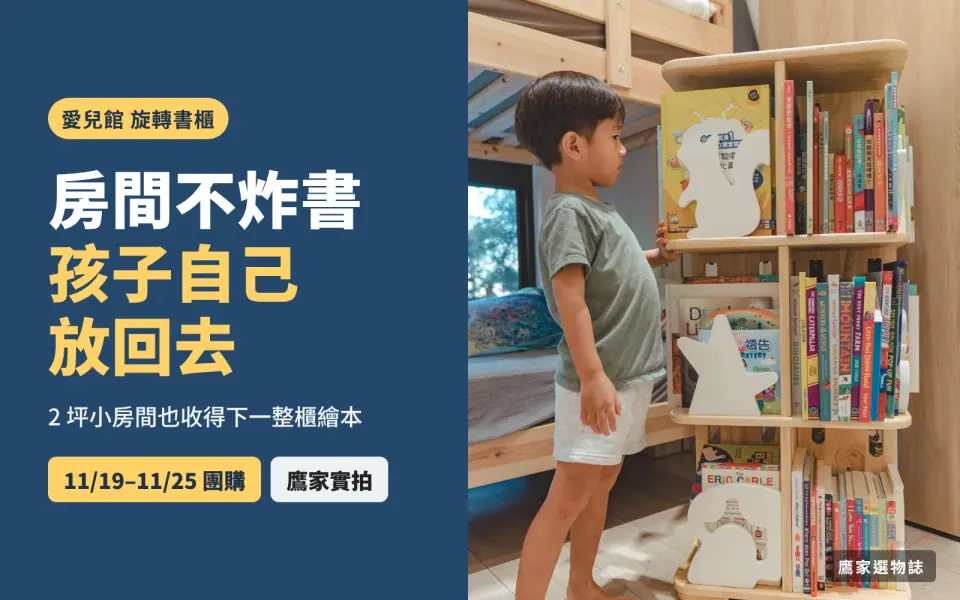
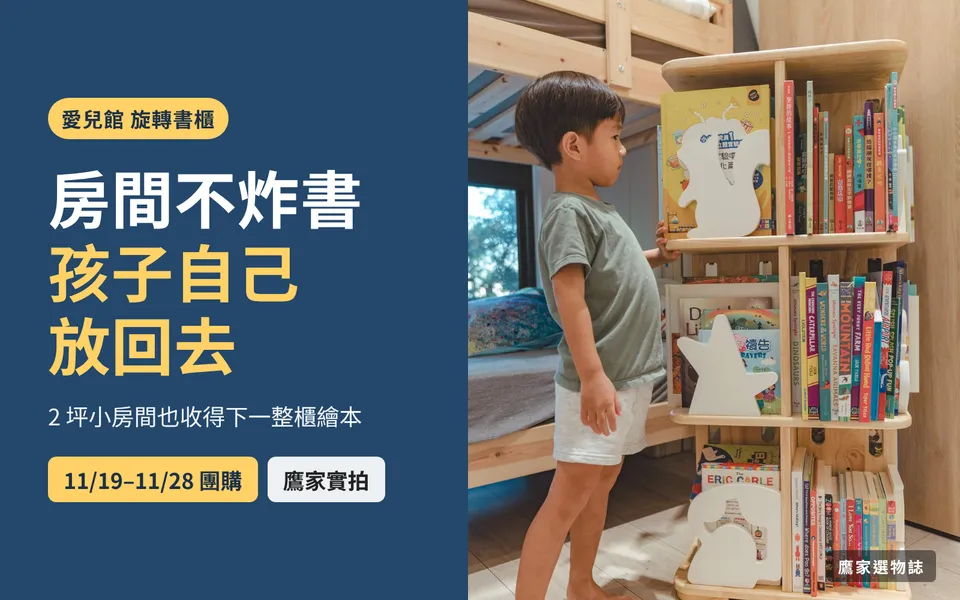
grace: GB-061 愛兒館旋轉書櫃改寫這一檔（11/19～11/28、價格、出貨、退貨），刪上一檔與免責套語；封面檔期同步
Claude-Session: https://claude.ai/code/session_01VMXN9TMQs8VKqA29BYD8cw

diff --git a/blog/ilovekids-rotating-bookcase/index.html b/blog/ilovekids-rotating-bookcase/index.html
@@ -1,15 +1,15 @@
 <!doctype html>
-<html lang="zh-Hant-TW"><head><meta charset="utf-8"><meta name="viewport" content="width=device-width,initial-scale=1"><meta name="robots" content="index,follow,max-image-preview:large"><title>愛兒館旋轉書櫃好用嗎？小房間收繪本，孩子自己拿、自己放回去｜鷹家選物誌</title><meta name="description" content="孩子房間不到 2 坪，長型書架讓書東倒西歪、孩子也不好拿放。我們從 2023 年開始用愛兒館旋轉書櫃，整理它省空間、孩子好拿的地方，以及 DIY 組裝、退貨前要知道的事；價格、規格以賣場當下為準。"><link rel="canonical" href="https://www.eaglish.store/blog/ilovekids-rotating-bookcase/"><meta property="og:type" content="article"><meta property="og:title" content="愛兒館旋轉書櫃好用嗎？小房間收繪本，孩子自己拿、自己放回去｜鷹家選物誌"><meta property="og:description" content="孩子房間不到 2 坪，長型書架讓書東倒西歪、孩子也不好拿放。我們從 2023 年開始用愛兒館旋轉書櫃，整理它省空間、孩子好拿的地方，以及 DIY 組裝、退貨前要知道的事；價格、規格以賣場當下為準。"><meta property="og:url" content="https://www.eaglish.store/blog/ilovekids-rotating-bookcase/"><meta property="og:image" content="https://www.eaglish.store/assets/ilovekids-rotating-bookcase/cover.webp"><meta property="og:image:width" content="1600"><meta property="og:image:height" content="1000"><meta property="og:image:alt" content="孩子站在愛兒館旋轉書櫃旁拿繪本；愛兒館旋轉書櫃使用心得"><meta name="twitter:card" content="summary_large_image"><meta name="twitter:image" content="https://www.eaglish.store/assets/ilovekids-rotating-bookcase/cover.webp"><link rel="stylesheet" href="/product-content.css?v=20260911-video-poster-ilovekids-rotating-bookcase"><link rel="stylesheet" href="/articles/article.css?v=20261112-offer"><link rel="stylesheet" href="/release.css"><link rel="stylesheet" href="/blog/journal-nav.css?v=20260910-2"><link rel="stylesheet" href="/blog/reading-nav.css?v=20260926-all-articles"><link rel="stylesheet" href="/content-hubs.css"><link rel="stylesheet" href="/blog/article-toc.css"><link rel="stylesheet" href="/blog/ilovekids-rotating-bookcase/ilovekids.css?v=20261112-offer"><script defer src="/product-content.js?v=20260911-video-poster-ilovekids-rotating-bookcase"></script><script defer src="/design/papaparse.min.js"></script><script defer src="/articles/floating-offer.js"></script><script defer src="/articles/sheet-offer.js" data-catalog-key="ilovekidsBookcase"></script><script defer src="/site-runtime.js?v=f0f2293268b6"></script><script defer src="/blog/journal-nav.js?v=20260910-2"></script><script defer src="/blog/reading-nav.js?v=20260926-all-articles"></script><meta name="twitter:title" content="愛兒館旋轉書櫃好用嗎？小房間收繪本，孩子自己拿、自己放回去｜鷹家選物誌">
-  <meta name="twitter:description" content="孩子房間不到 2 坪，長型書架讓書東倒西歪、孩子也不好拿放。我們從 2023 年開始用愛兒館旋轉書櫃，整理它省空間、孩子好拿的地方，以及 DIY 組裝、退貨前要知道的事；價格、規格以賣場當下為準。">
+<html lang="zh-Hant-TW"><head><meta charset="utf-8"><meta name="viewport" content="width=device-width,initial-scale=1"><meta name="robots" content="index,follow,max-image-preview:large"><title>愛兒館旋轉書櫃好用嗎？小房間收繪本，孩子自己拿、自己放回去｜鷹家選物誌</title><meta name="description" content="孩子房間不到 2 坪，長型書架讓書東倒西歪、孩子也不好拿放。我們從 2023 年開始用愛兒館旋轉書櫃，整理它省空間、孩子好拿的地方，以及這一檔 11/19～11/28 的價格、出貨與 DIY 組裝、退貨規則。"><link rel="canonical" href="https://www.eaglish.store/blog/ilovekids-rotating-bookcase/"><meta property="og:type" content="article"><meta property="og:title" content="愛兒館旋轉書櫃好用嗎？小房間收繪本，孩子自己拿、自己放回去｜鷹家選物誌"><meta property="og:description" content="孩子房間不到 2 坪，長型書架讓書東倒西歪、孩子也不好拿放。我們從 2023 年開始用愛兒館旋轉書櫃，整理它省空間、孩子好拿的地方，以及這一檔 11/19～11/28 的價格、出貨與 DIY 組裝、退貨規則。"><meta property="og:url" content="https://www.eaglish.store/blog/ilovekids-rotating-bookcase/"><meta property="og:image" content="https://www.eaglish.store/assets/ilovekids-rotating-bookcase/cover.webp"><meta property="og:image:width" content="1600"><meta property="og:image:height" content="1000"><meta property="og:image:alt" content="孩子站在愛兒館旋轉書櫃旁拿繪本；愛兒館旋轉書櫃使用心得"><meta name="twitter:card" content="summary_large_image"><meta name="twitter:image" content="https://www.eaglish.store/assets/ilovekids-rotating-bookcase/cover.webp"><link rel="stylesheet" href="/product-content.css?v=20260911-video-poster-ilovekids-rotating-bookcase"><link rel="stylesheet" href="/articles/article.css?v=20261112-offer"><link rel="stylesheet" href="/release.css"><link rel="stylesheet" href="/blog/journal-nav.css?v=20260910-2"><link rel="stylesheet" href="/blog/reading-nav.css?v=20260926-all-articles"><link rel="stylesheet" href="/content-hubs.css"><link rel="stylesheet" href="/blog/article-toc.css"><link rel="stylesheet" href="/blog/ilovekids-rotating-bookcase/ilovekids.css?v=20261112-offer"><script defer src="/product-content.js?v=20260911-video-poster-ilovekids-rotating-bookcase"></script><script defer src="/design/papaparse.min.js"></script><script defer src="/articles/floating-offer.js"></script><script defer src="/articles/sheet-offer.js" data-catalog-key="ilovekidsBookcase"></script><script defer src="/site-runtime.js?v=f0f2293268b6"></script><script defer src="/blog/journal-nav.js?v=20260910-2"></script><script defer src="/blog/reading-nav.js?v=20260926-all-articles"></script><meta name="twitter:title" content="愛兒館旋轉書櫃好用嗎？小房間收繪本，孩子自己拿、自己放回去｜鷹家選物誌">
+  <meta name="twitter:description" content="孩子房間不到 2 坪，長型書架讓書東倒西歪、孩子也不好拿放。我們從 2023 年開始用愛兒館旋轉書櫃，整理它省空間、孩子好拿的地方，以及這一檔 11/19～11/28 的價格、出貨與 DIY 組裝、退貨規則。">
   <meta name="twitter:image:alt" content="孩子站在愛兒館旋轉書櫃旁拿繪本；愛兒館旋轉書櫃使用心得">
-  <script type="application/ld+json">{"@context":"https://schema.org","@graph":[{"@type":"Article","headline":"愛兒館旋轉書櫃好用嗎？小房間收繪本，孩子自己拿、自己放回去","description":"孩子房間不到 2 坪，長型書架讓書東倒西歪、孩子也不好拿放。我們從 2023 年開始用愛兒館旋轉書櫃，整理它省空間、孩子好拿的地方，以及 DIY 組裝、退貨前要知道的事；價格、規格以賣場當下為準。","image":["https://www.eaglish.store/assets/ilovekids-rotating-bookcase/cover.webp"],"datePublished":"2026-11-10","dateModified":"2026-11-10","inLanguage":"zh-Hant-TW","author":{"@type":"Organization","name":"鷹式一家","url":"https://www.eaglish.store/"},"publisher":{"@type":"Organization","@id":"https://www.eaglish.store/#organization","name":"鷹式一家","url":"https://www.eaglish.store/"},"mainEntityOfPage":"https://www.eaglish.store/blog/ilovekids-rotating-bookcase/","isAccessibleForFree":true,"keywords":["愛兒館","旋轉書櫃","兒童書櫃","繪本收納","ilovekids"]},{"@type":"BreadcrumbList","itemListElement":[{"@type":"ListItem","position":1,"name":"鷹家買物社","item":"https://www.eaglish.store/"},{"@type":"ListItem","position":2,"name":"鷹家選物誌","item":"https://www.eaglish.store/blog/"},{"@type":"ListItem","position":3,"name":"愛兒館旋轉書櫃","item":"https://www.eaglish.store/blog/ilovekids-rotating-bookcase/"}]}]}</script><!-- site-navigation-assets:start --><link rel="stylesheet" href="/site-navigation.css?v=b63a217b6a26"><!-- site-navigation-assets:end -->
+  <script type="application/ld+json">{"@context":"https://schema.org","@graph":[{"@type":"Article","headline":"愛兒館旋轉書櫃好用嗎？小房間收繪本，孩子自己拿、自己放回去","description":"孩子房間不到 2 坪，長型書架讓書東倒西歪、孩子也不好拿放。我們從 2023 年開始用愛兒館旋轉書櫃，整理它省空間、孩子好拿的地方，以及這一檔 11/19～11/28 的價格、出貨與 DIY 組裝、退貨規則。","image":["https://www.eaglish.store/assets/ilovekids-rotating-bookcase/cover.webp"],"datePublished":"2026-11-10","dateModified":"2026-11-10","inLanguage":"zh-Hant-TW","author":{"@type":"Organization","name":"鷹式一家","url":"https://www.eaglish.store/"},"publisher":{"@type":"Organization","@id":"https://www.eaglish.store/#organization","name":"鷹式一家","url":"https://www.eaglish.store/"},"mainEntityOfPage":"https://www.eaglish.store/blog/ilovekids-rotating-bookcase/","isAccessibleForFree":true,"keywords":["愛兒館","旋轉書櫃","兒童書櫃","繪本收納","ilovekids"]},{"@type":"BreadcrumbList","itemListElement":[{"@type":"ListItem","position":1,"name":"鷹家買物社","item":"https://www.eaglish.store/"},{"@type":"ListItem","position":2,"name":"鷹家選物誌","item":"https://www.eaglish.store/blog/"},{"@type":"ListItem","position":3,"name":"愛兒館旋轉書櫃","item":"https://www.eaglish.store/blog/ilovekids-rotating-bookcase/"}]}]}</script><!-- site-navigation-assets:start --><link rel="stylesheet" href="/site-navigation.css?v=b63a217b6a26"><!-- site-navigation-assets:end -->
 <meta property="og:site_name" content="鷹家選物誌">
 </head>
 <body data-article-key="ilovekidsBookcase" data-reading-nav-instant><a class="skip" href="#article">跳到文章</a><div class="journal-chrome"><header class="masthead"><a class="brand" href="/blog/" aria-label="鷹家選物誌，返回首頁"><span class="sr-only">鷹家選物誌</span><img src="/assets/editorial/eaglish-journal-wordmark-v1.svg" width="420" height="100" alt="" aria-hidden="true"></a><a href="/blog/">回到選物誌 ↗</a></header></div>
-<main id="article" class="article-layout"><article><div class="article-body"><section class="opening" id="intro" data-editorial-section data-answer-block><p class="eyebrow">兒童閱讀收納</p><h1>愛兒館旋轉書櫃好用嗎？小房間收繪本，孩子自己拿、自己放回去</h1><p class="byline">鷹式一家</p><p>新家原本替孩子留了一整面長型書架，用了才發現不好用：就算加了書擋，書還是東倒西歪，孩子要拿書、放回去都很吃力。後來換成<strong>愛兒館（ilovekids）旋轉書櫃</strong>，我們最大的感想是：太晚認識它了。</p><p>下面是我們家 2023 年開始用的實拍與心得。這次團購 <strong>2026/11/19～11/25</strong>，價格、尺寸、層數與組合，請以開團後的賣場當下為準。</p><img class="article-cover" src="/assets/ilovekids-rotating-bookcase/cover.webp" alt="孩子站在愛兒館旋轉書櫃旁拿繪本；愛兒館旋轉書櫃使用心得" width="1600" height="1000" fetchpriority="high"><nav class="choice-links" data-reading-nav aria-label="文章目錄"><a href="#space">小房間也放得下</a><a href="#reach">孩子自己拿、自己放</a><a href="#turntable">轉盤與承重</a><a href="#before-buy">下單前要知道</a></nav></section><section id="space"><p class="section-label">01</p><h2>小房間也放得下：佔地小，書卻收得多</h2><p>孩子的房間快 2 坪而已。旋轉書櫃往上長、四面都能放書，佔的地板面積比一面書架小很多，收的書反而更多。放在客廳角落或床邊也都合適，不用特地空出一整面牆。</p><img class="article-photo" src="/assets/ilovekids-rotating-bookcase/reading-chair.webp" alt="孩子坐在小椅子上看繪本，旁邊是愛兒館旋轉書櫃" width="1600" height="1066" loading="lazy"><p>除了書，也可以放孩子的作品。四面都是展示面，畫好的作品、做好的勞作有地方擺出來。</p></section><section id="reach"><p class="section-label">02</p><h2>孩子自己拿、自己放：每一格都不深</h2><p>每一格都不會太大、太深，孩子力氣小也能準確地抽出一本、再放回去。想看哪本就轉過來拿，不用整排翻找。<strong>拿得到、放得回去，孩子才會常去拿書。</strong></p><div class="media-pair"><img class="article-photo" src="/assets/ilovekids-rotating-bookcase/standing-tall.webp" alt="孩子站在愛兒館旋轉書櫃旁，書櫃與孩子差不多高" width="1066" height="1600" loading="lazy"><img class="article-photo" src="/assets/ilovekids-rotating-bookcase/reading-corner.webp" alt="床邊放著旋轉書櫃，孩子坐在旁邊看繪本" width="1066" height="1600" loading="lazy"></div><p>我們家實際放的時候，單一格大約放得下 46 本康軒進階雜誌（約 12 公斤）。書的厚薄不同，能放幾本會不一樣。</p></section><section id="turntable"><p class="section-label">03</p><h2>轉盤與承重：放滿書也轉得動</h2><p>我們 2023 年寫心得時，賣場說明是：底部用鋁合金轉盤，標榜低噪音、高承重、耐腐蝕；每層耐重 48 公斤、最高可以疊到 4 層，放滿書孩子也轉得動。</p><img class="article-photo" src="/assets/ilovekids-rotating-bookcase/pull-book.webp" alt="孩子轉動愛兒館旋轉書櫃，從上層抽出一本繪本" width="1600" height="1066" loading="lazy"><p>這次團購的層數選擇、每層承重、尺寸與材質，請以開團後的賣場標示為準。上一檔團購的賣場也特別寫到：橡膠實木的自然紋理和色澤深淺會不一樣。</p></section><section id="before-buy"><p class="section-label">04</p><h2>下單前要知道：DIY 組裝、退貨規則</h2><ul><li><strong>DIY 組裝：</strong>賣場標示這是 DIY 組裝商品，收到要自己組。</li><li><strong>大型家具：</strong>上一檔團購的賣場說明，家具是大型貨件，不提供送上樓服務。</li><li><strong>退貨：</strong>上一檔的說明是，個人因素退貨會扣除寄件運費；拆封組裝後或外箱已丟棄，還要酌收整新費。</li></ul><p>以上是上一檔賣場的寫法，這次的出貨、運費與退貨規則，請以 11/19 開團後的賣場為準。下單前先量好要放的位置，確認高度和寬度放得下。</p><img class="article-photo" src="/assets/ilovekids-rotating-bookcase/reading-seat.webp" alt="孩子坐在旋轉書櫃旁翻繪本" width="1066" height="1600" loading="lazy"><p>想看更多我們家的使用心得，可以看 Queenie 2023 年在鷹式家庭部落格寫的<a href="https://projecteaglet.com/ilovekids/" target="_blank" rel="noopener">愛兒館兒童傢俱心得</a>，或<a href="https://youtu.be/6xPDr95mryw" target="_blank" rel="noopener">影片介紹</a>。</p></section><section id="faq" data-editorial-section><p class="section-label">常見問題</p><h2>下單前常被問到的幾件事</h2>
-<details><summary>價格多少？什麼時候開團？</summary><p>團購 2026/11/19～11/25。價格、組合與層數選擇，以開團後的賣場當下為準。</p></details>
-<details><summary>要自己組裝嗎？</summary><p>要。賣場標示這是 DIY 組裝商品；組裝說明以收到的說明書為準。</p></details>
-<details><summary>家裡空間小，放得下嗎？</summary><p>我們家放在不到 2 坪的孩子房間。實際尺寸以賣場標示為準，下單前先量好要放的位置。</p></details>
-<details><summary>拆開組好之後還能退嗎？</summary><p>上一檔賣場說明，拆封組裝後或外箱丟棄，個人因素退貨要酌收整新費。這次規則以賣場為準，下單前先確認尺寸和顏色。</p></details>
-</section><section id="offer" class="purchase" data-editorial-section><p class="section-label">05</p><h2>量好位置，11/19 開團到賣場確認</h2><p>團購 2026/11/19～11/25。價格、尺寸、層數、出貨與運費，請以開團後的賣場當下為準。</p><p>下單前先量好要放的位置，也確認收到後有時間自己組裝。</p><a class="offer-link" href="/#catalog" data-sheet-offer data-open-label="選購愛兒館旋轉書櫃 ↗" data-editorial-exclude>到買物社查看當期團購 ↗</a><p>本文含團購連結。</p><noscript><p data-editorial-exclude>請到<a href="/">買物社</a>查看當期團購。</p></noscript></section></div></article><!-- related-reading:start --><nav class="related-reading" aria-label="延伸選購筆記"><h2>接著，從你的需要繼續挑</h2><p><a href="/guides/">選購指南</a> · <a href="/how-we-select/">我們怎麼選物</a> · <a href="/#product-ilovekids-rotating-bookcase">回到愛兒館 旋轉書櫃商品介紹</a></p><ul></ul></nav><!-- related-reading:end --></main>
+<main id="article" class="article-layout"><article><div class="article-body"><section class="opening" id="intro" data-editorial-section data-answer-block><p class="eyebrow">兒童閱讀收納</p><h1>愛兒館旋轉書櫃好用嗎？小房間收繪本，孩子自己拿、自己放回去</h1><p class="byline">鷹式一家</p><p>新家原本替孩子留了一整面長型書架，用了才發現不好用：就算加了書擋，書還是東倒西歪，孩子要拿書、放回去都很吃力。後來換成<strong>愛兒館（ilovekids）旋轉書櫃</strong>，我們最大的感想是：太晚認識它了。</p><p>下面是我們家 2023 年開始用的實拍與心得。這一檔團購 <strong>2026/11/19～11/28 晚上 23:59</strong>，旋轉書櫃一組團購價 NT$6,199（原價 NT$9,999），新版第四層（台灣黑熊）加購 NT$2,099。</p><img class="article-cover" src="/assets/ilovekids-rotating-bookcase/cover.webp" alt="孩子站在愛兒館旋轉書櫃旁拿繪本；愛兒館旋轉書櫃使用心得" width="1600" height="1000" fetchpriority="high"><nav class="choice-links" data-reading-nav aria-label="文章目錄"><a href="#space">小房間也放得下</a><a href="#reach">孩子自己拿、自己放</a><a href="#turntable">轉盤與承重</a><a href="#before-buy">下單前要知道</a></nav></section><section id="space"><p class="section-label">01</p><h2>小房間也放得下：佔地小，書卻收得多</h2><p>孩子的房間快 2 坪而已。旋轉書櫃往上長、四面都能放書，佔的地板面積比一面書架小很多，收的書反而更多。放在客廳角落或床邊也都合適，不用特地空出一整面牆。</p><img class="article-photo" src="/assets/ilovekids-rotating-bookcase/reading-chair.webp" alt="孩子坐在小椅子上看繪本，旁邊是愛兒館旋轉書櫃" width="1600" height="1066" loading="lazy"><p>除了書，也可以放孩子的作品。四面都是展示面，畫好的作品、做好的勞作有地方擺出來。</p></section><section id="reach"><p class="section-label">02</p><h2>孩子自己拿、自己放：每一格都不深</h2><p>每一格都不會太大、太深，孩子力氣小也能準確地抽出一本、再放回去。想看哪本就轉過來拿，不用整排翻找。<strong>拿得到、放得回去，孩子才會常去拿書。</strong></p><div class="media-pair"><img class="article-photo" src="/assets/ilovekids-rotating-bookcase/standing-tall.webp" alt="孩子站在愛兒館旋轉書櫃旁，書櫃與孩子差不多高" width="1066" height="1600" loading="lazy"><img class="article-photo" src="/assets/ilovekids-rotating-bookcase/reading-corner.webp" alt="床邊放著旋轉書櫃，孩子坐在旁邊看繪本" width="1066" height="1600" loading="lazy"></div><p>我們家實際放的時候，單一格大約放得下 46 本康軒進階雜誌（約 12 公斤）。書的厚薄不同，能放幾本會不一樣。</p></section><section id="turntable"><p class="section-label">03</p><h2>轉盤與承重：放滿書也轉得動</h2><p>我們 2023 年寫心得時，賣場說明是：底部用鋁合金轉盤，標榜低噪音、高承重、耐腐蝕；每層耐重 48 公斤、最高可以疊到 4 層，放滿書孩子也轉得動。</p><img class="article-photo" src="/assets/ilovekids-rotating-bookcase/pull-book.webp" alt="孩子轉動愛兒館旋轉書櫃，從上層抽出一本繪本" width="1600" height="1066" loading="lazy"><p>櫃體是橡膠實木，每一片的木紋和色澤深淺都不太一樣。我們家的那組用到現在，這點反而讓它看起來不像塑膠家具。想再加高，這一檔有新版第四層可以加購。</p></section><section id="before-buy"><p class="section-label">04</p><h2>下單前要知道：DIY 組裝、退貨規則</h2><ul><li><strong>DIY 組裝：</strong>收到要自己組，至少兩個人一起組比較順。組裝說明書附在箱子裡。</li><li><strong>出貨：</strong>旋轉書櫃和第四層都是預購，11/30 起陸續出貨，2～3 個工作天內寄完；大榮貨運配送，不送上樓，也不能指定到貨時間。</li><li><strong>運費：</strong>台灣本島滿 NT$2,399 免運，單買書櫃就過門檻；離島不配送。</li><li><strong>付款：</strong>只能刷卡，送出訂單時就要完成付款。</li><li><strong>收貨與退貨：</strong>拆箱先清點零件，短缺或受損 7 天內找客服；新品瑕疵要在收到 3 天內拍照告知。家裡放不下、和想像不同這類個人因素退貨，會扣寄件運費；已經拆封組裝或外箱丟了，還要收整新費。</li></ul><p>下單前先量好要放的位置，確認高度和寬度放得下，紙箱也先別丟。</p><img class="article-photo" src="/assets/ilovekids-rotating-bookcase/reading-seat.webp" alt="孩子坐在旋轉書櫃旁翻繪本" width="1066" height="1600" loading="lazy"><p>想看更多我們家的使用心得，可以看 Queenie 2023 年在鷹式家庭部落格寫的<a href="https://projecteaglet.com/ilovekids/" target="_blank" rel="noopener">愛兒館兒童傢俱心得</a>，或<a href="https://youtu.be/6xPDr95mryw" target="_blank" rel="noopener">影片介紹</a>。</p></section><section id="faq" data-editorial-section><p class="section-label">常見問題</p><h2>下單前常被問到的幾件事</h2>
+<details><summary>價格多少？什麼時候開團？</summary><p>團購 2026/11/19～11/28 晚上 23:59。旋轉書櫃一組 NT$6,199，新版第四層加購 NT$2,099，本島滿 NT$2,399 免運。</p></details>
+<details><summary>要自己組裝嗎？</summary><p>要。這是 DIY 家具，至少兩個人一起組，箱子裡附組裝說明書。</p></details>
+<details><summary>家裡空間小，放得下嗎？</summary><p>我們家放在不到 2 坪的孩子房間，佔的是一個角落。下單前先量好要放的位置，加購第四層的話也要算進高度。</p></details>
+<details><summary>拆開組好之後還能退嗎？</summary><p>個人因素退貨會扣寄件運費；已經拆封組裝或外箱丟棄，還要酌收整新費。所以先量好位置再下單，收到後紙箱先留著。</p></details>
+</section><section id="offer" class="purchase" data-editorial-section><p class="section-label">05</p><h2>量好位置，11/28 前下單</h2><p>團購 2026/11/19～11/28 晚上 23:59。旋轉書櫃 NT$6,199，新版第四層加購 NT$2,099；11/30 起陸續出貨。</p><p>下單前先量好要放的位置，也確認收到後有兩個人、有時間一起組裝。</p><a class="offer-link" href="/#catalog" data-sheet-offer data-open-label="選購愛兒館旋轉書櫃 ↗" data-editorial-exclude>到買物社查看當期團購 ↗</a><p>本文含團購連結。</p><noscript><p data-editorial-exclude>請到<a href="/">買物社</a>查看當期團購。</p></noscript></section></div></article><!-- related-reading:start --><nav class="related-reading" aria-label="延伸選購筆記"><h2>接著，從你的需要繼續挑</h2><p><a href="/guides/">選購指南</a> · <a href="/how-we-select/">我們怎麼選物</a> · <a href="/#product-ilovekids-rotating-bookcase">回到愛兒館 旋轉書櫃商品介紹</a></p><ul></ul></nav><!-- related-reading:end --></main>
 <!-- site-navigation:start --><nav class="site-switcher" aria-label="鷹式一家三站導覽"><div class="site-switcher-inner"><a href="/" data-site-section="store" aria-label="鷹家買物社">買物社</a><a href="/blog/" data-site-section="journal" aria-label="鷹家選物誌" aria-current="location">選物誌</a><a href="/trip/" data-site-section="travel" aria-label="鷹家遠行所">遠行所</a></div></nav><script defer src="/site-font-loader.js?v=6484da83cad3" data-font-entry="false"></script><!-- site-navigation:end --></body></html>

diff --git a/blog/caesar-kenting/index.html b/blog/caesar-kenting/index.html
@@ -76,7 +76,7 @@
 <div class="photo-grid"><figure><a href="/assets/caesar-kenting/journal/kids-slide.webp" target="_blank" rel="noopener" aria-label="放大：兒童館的球池與溜滑梯"><img src="/assets/caesar-kenting/journal/kids-slide.webp" width="1400" height="934" alt="兒童館的球池與溜滑梯" loading="lazy" decoding="async"></a><figcaption>兒童館的溜滑梯與球池，適合先讓孩子看看會想玩什麼。</figcaption></figure><figure><a href="/assets/caesar-kenting/journal/kids-play.webp" target="_blank" rel="noopener" aria-label="放大：兒童館的家家酒與遊戲區"><img src="/assets/caesar-kenting/journal/kids-play.webp" width="1400" height="934" alt="兒童館的家家酒與遊戲區" loading="lazy" decoding="async"></a><figcaption>室內遊戲區可以是雨天備案，但不是無需陪同的托育服務。</figcaption></figure></div>
 <p>飯店兒童館主要為學齡前孩子設計，有球池、溜滑梯與家家酒等遊具。官網列一般開放時間 09:00–22:00，週一至週四 12:00–13:30 清潔暫停；現場另有哺集乳室／育嬰室。陪玩的家長仍須留意孩子的安全與身體狀況。出發前可看<a href="https://kenting.caesarpark.com.tw/service-detail/kid-facilities/" target="_blank" rel="noopener">最新兒童館時間與活動</a>，付費課程不要和住宿內含服務混為一談。</p>
 <div class="photo-grid"><figure><a href="/assets/caesar-kenting/journal/beach-view.webp" target="_blank" rel="noopener" aria-label="放大：小灣沙灘與海岸遠景"><img src="/assets/caesar-kenting/journal/beach-view.webp" width="1400" height="875" alt="小灣沙灘與海岸遠景" loading="lazy" decoding="async"></a><figcaption>小灣的海岸線。安排散步時間，也保留依天候改變行程的彈性。</figcaption></figure><figure><a href="/assets/caesar-kenting/journal/beach-bar.webp" target="_blank" rel="noopener" aria-label="放大：小灣酒吧的彩色階梯與海邊平台"><img src="/assets/caesar-kenting/journal/beach-bar.webp" width="1400" height="875" alt="小灣酒吧的彩色階梯與海邊平台" loading="lazy" decoding="async"></a><figcaption>小灣酒吧與海邊平台。這裡不是 9 月專案一泊二食指定的發現西餐廳。</figcaption></figure></div>
-<p>想走到海邊坐坐，可以把它當成另一個慢下來的時段。小灣酒吧的餐飲不等於9 月專案內含的晚餐；海邊也不是飯店的私人泳池，是否能下水要看現場安全公告。帶孩子先顧遮陽、補水與成人陪同，比多跑一個景點重要。</p>
+<p>想走到海邊坐坐，可以把它當成另一個慢下來的時段。小灣酒吧的餐飲不等於 9 月專案內含的晚餐；海邊也不是飯店的私人泳池，是否能下水要看現場安全公告。帶孩子先顧遮陽、補水與成人陪同，比多跑一個景點重要。</p>
 </section>
 <section id="offer-details" class="offer-details"><p class="section-label">10 ／ 2026 年 9 月快閃專案</p><h2>把「起價」拆開，<br>才知道一家人要付多少。</h2>
 <p>9 月這一檔在 <strong>2026/09/14–09/20</strong> 開賣，已經結束。下面留著那一檔的價格結構，讓你看懂房價、孩子加價和日期加價怎麼疊上去；下次開團再換上新的價格。</p>
@@ -98,18 +98,18 @@
 </section>
 <section id="questions" class="questions"><p class="section-label">11 ／ 出發前會想問的事</p><h2>常見問題，<br>先替一家人問清楚。</h2>
 <details><summary>2 大 1 小可以訂最低價的景緻客房嗎？</summary><p>不要這樣選。景緻是一大床、9 月專案最多 2 人，飯店官網亦註明不接待嬰幼童加住。即使孩子未滿 6 歲免加價，也不能突破房型限制。請從兩大床的景觀房開始，填入全部入住人數。</p></details>
-<details><summary>景觀房是不是一定看得到海？</summary><p>不是。官網把「景觀客房」和「海景景觀客房」分開列，9 月專案所列景觀房不能直接理解為保證海景。若海景是你最在意的條件，先向飯店確認9 月專案是否有對應房型與加價，不以照片中的某個角度作保證。</p></details>
+<details><summary>景觀房是不是一定看得到海？</summary><p>不是。官網把「景觀客房」和「海景景觀客房」分開列，9 月專案所列景觀房不能直接理解為保證海景。若海景是你最在意的條件，先向飯店確認專案裡有沒有海景房型、加價多少，不以照片中的某個角度作保證。</p></details>
 <details><summary>花園房、池畔花園房，哪個比較適合孩子？</summary><p>想在房內多一塊戶外休憩空間，看花園房；打算頻繁往返公共泳池，再比較池畔花園的獨立出入口。兩者都有需要成人看顧的戶外浴池與出入口，沒有哪一種可以讓孩子自行玩水。先看動線，再考量孩子年齡。</p></details>
-<details><summary>4 人住景觀房，早晚餐也是 4 份嗎？</summary><p>基本雙人方案包含 2 位成人的早晚餐。其餘同行者依9 月專案年齡級距加價或免費安排；記得將全部入住者填入訂單，讓住宿與用餐人數一致。四人上限包括嬰幼兒，不是四位成人之外還能再帶寶寶。</p></details>
+<details><summary>4 人住景觀房，早晚餐也是 4 份嗎？</summary><p>基本雙人方案包含 2 位成人的早晚餐。其餘同行者依 9 月專案年齡級距加價或免費安排；記得將全部入住者填入訂單，讓住宿與用餐人數一致。四人上限包括嬰幼兒，不是四位成人之外還能再帶寶寶。</p></details>
 <details><summary>可以加床、借嬰兒床或床圍嗎？</summary><p>不要先假設照片中的空位可以加床。9 月專案沒有保證額外加床；有嬰兒床、床圍、澡盆或推車需求，訂房前把孩子年齡、體重與所選房型告知訂房組，請飯店確認可提供的設備、數量及安排。沙發床也只在專案有列出的房型中確認。</p></details>
 <details><summary>幾點入住、幾點退房？可以先去玩設施嗎？</summary><p>飯店官網列入住 15:00、退房 11:00。提早進房、延後退房或房間使用前後能否使用設施，需另向飯店確認，不把設施一般開放時間當成提前入住的保證。</p></details>
 <details><summary>沒開車，從高鐵左營站怎麼去？</summary><p>飯店提供住客定點接駁，需提前預約且座位有限。官網目前列左營站 14:15 發車、飯店回程 11:00，預估車程約 2.5 小時，建議提前 15 分鐘候車。先確認接駁席位，再買銜接的高鐵班次；班表與預約方式請看<a href="https://kenting.caesarpark.com.tw/traffic/shuttlebus/" target="_blank" rel="noopener">飯店接駁資訊</a>。</p></details>
 <details><summary>9 月專案有高鐵加購優惠嗎？</summary><p>9 月專案列高鐵平日聯票 95 折起，需在網路訂房時一併加購。不是訂完任何車票都能事後補折扣，也不要沿用過往團購的折數。可選車次、日期與售價，在加購畫面上選。</p></details>
 <details><summary>生日入住，有什麼要先準備？</summary><p>9 月專案列入住當日壽星可安排個人小蛋糕，當月壽星可安排客房布置。請訂房時備註，或至少提前 3 天致電告知，入住攜帶證件核對。當日與當月是不同條件，不要等到現場才提出需求。</p></details>
-<details><summary>訂好後可以改日期，或免費取消嗎？</summary><p>9 月專案不能直接異動入住、退房日期；僅接受促銷期間重新選訂及取消。取消費用要看付款前顯示的9 月專案條款與取消時間，重新訂也不保證原價或原房型。請先保留條款與訂房確認，有疑問直接向飯店訂房組詢問。</p></details>
+<details><summary>訂好後可以改日期，或免費取消嗎？</summary><p>9 月專案不能直接異動入住、退房日期；僅接受促銷期間重新選訂及取消。取消費用要看付款前顯示的 9 月專案條款與取消時間，重新訂也不保證原價或原房型。請先保留條款與訂房確認，有疑問直接向飯店訂房組詢問。</p></details>
 <details><summary>遇到颱風或天氣不好怎麼辦？</summary><p>先分開看「戶外設施暫停」與「住宿取消／延期」：兩者不是同一件事。泳池、海邊活動依現場安全公告；訂房的處理方式則需向飯店確認你那張訂單的條件。不要只因雨天就假設可免費取消，也不要為了使用方案勉強前往。</p></details>
 <details><summary>可以帶寵物一起住進房間嗎？</summary><p>一般客房不要預設可帶寵物入住。飯店另有犬貓使用的寵物小築，與客房同住不同；想帶毛孩請事先詢問寄宿空間、預約與文件要求，再決定是否適合自己的旅行方式。</p></details>
 </section>
 <section class="last-look"><p class="handwritten">先選對房，才有空慢慢度假。</p><figure><a href="/assets/caesar-kenting/journal/hotel-coast.webp" target="_blank" rel="noopener" aria-label="放大：墾丁凱撒大飯店周邊的山與小灣海岸"><img src="/assets/caesar-kenting/journal/hotel-coast.webp" width="1400" height="933" alt="墾丁凱撒大飯店周邊的山與小灣海岸" loading="lazy" decoding="async"></a><figcaption>海、椰林與後方的山。這趟旅行不必把每個空白都排滿。</figcaption></figure><p>如果看完還拿不定主意，先寫下三件事：同行者與年齡、最想使用的空間、能接受的整筆預算。兩大床不代表所有人都含餐，私人浴池不等於游泳池，房間更大也不代表更適合每一家人。把這幾件事分清楚，訂房頁就容易看懂很多。</p></section>
-<section class="purchase"><p class="handwritten signoff">把假期留給一家人。</p><h2>房型想好了，<br>再看看適合你們的日期。</h2><p>先查當期方案、可售房型與完整人數總額。</p><button type="button" data-current-offer disabled>正在確認最新團購…</button><p id="offer-status" role="status">正在確認當期購買入口。</p><noscript><p>請到<a href="/">團購首頁</a>查看最新入口。</p></noscript><a class="more" href="/?p=%E5%A2%BE%E4%B8%81%E5%87%B1%E6%92%92%E5%A4%A7%E9%A3%AF%E5%BA%97">回到墾丁凱撒商品卡 ↗</a></section>
+<section class="purchase"><p class="handwritten signoff">把假期留給一家人。</p><h2>房型想好了，<br>再看看適合你們的日期。</h2><p>9 月這一檔已經結束；下次開團時，先查方案、可售房型與完整人數總額。</p><button type="button" data-current-offer disabled>正在確認最新團購…</button><p id="offer-status" role="status">正在確認當期購買入口。</p><noscript><p>請到<a href="/">團購首頁</a>查看最新入口。</p></noscript><a class="more" href="/?p=%E5%A2%BE%E4%B8%81%E5%87%B1%E6%92%92%E5%A4%A7%E9%A3%AF%E5%BA%97">回到墾丁凱撒商品卡 ↗</a></section>
 <footer class="sources"><p>出門前也可以讀：<a href="/blog/kietla-kids-sunglasses/">孩子的太陽眼鏡怎麼選</a>、<a href="/blog/hereu-tag/">旅行小物的定位與找回方式</a>。</p><p>房型與環境照片由墾丁凱撒大飯店提供，景緻照片取自官方房型頁；家庭畫面擷取自<a href="https://www.youtube.com/watch?v=0oNzr8gyxyQ&amp;t=979s" target="_blank" rel="noopener">鷹式一家墾丁旅行影片</a>。房型資料參考<a href="https://kenting.caesarpark.com.tw/room/" target="_blank" rel="noopener">飯店官方房型介紹</a>；方案整理自 2026 年 9 月「鷹式一家快閃推薦專案」。本篇為合作推廣，透過團購連結訂房可能讓我們獲得回饋。</p><p>訂房問題請洽墾丁凱撒大飯店 <a href="tel:+88688861888">08-886-1888</a>；地址：屏東縣恆春鎮墾丁路 6 號。</p></footer></div></article><!-- related-reading:start --><nav class="related-reading" aria-label="延伸選購筆記"><h2>接著，從你的需要繼續挑</h2><p><a href="/guides/#travel">一家人的出門準備</a> · <a href="/how-we-select/">我們怎麼選物</a> · <a href="/#product-caesar-kenting">回到墾丁凱撒大飯店商品介紹</a></p><ul><li><a href="/blog/leofoo/">六福莊飯店｜六福莊房型怎麼選？剛果、肯亞與三種住宿方案</a></li><li><a href="/blog/sanfufarm/">三富休閒農場｜三富休閒農場房型怎麼選？森林館、紫屋與欒樹館比較</a></li><li><a href="/blog/shoumaji/">收麻吉手捲收納袋｜收麻吉手捲壓縮袋｜旅行怎麼挑尺寸與袋數？</a></li><li><a href="/blog/kietla-kids-sunglasses/">法國 Ki ET LA 兒童太陽眼鏡｜墨鏡｜小小的臉，也有自己的風格。</a></li><li><a href="/blog/hereu-tag/">hereu 智慧定位器｜出門前，少找一輪。</a></li><li><a href="/blog/miamily/">瑞士 Miamily｜MiaMily｜孩子走累了，旅行還可以慢慢走。</a></li><li><a href="/blog/insta360-ezway/">Insta360 官網買相機，FedEx 要你填 EZ WAY：清單空白不用等，自己按「新增」</a></li></ul></nav><!-- related-reading:end --></main><!-- site-navigation:start --><nav class="site-switcher" aria-label="鷹式一家三站導覽"><div class="site-switcher-inner"><a href="/" data-site-section="store" aria-label="鷹家買物社">買物社</a><a href="/blog/" data-site-section="journal" aria-label="鷹家選物誌" aria-current="location">選物誌</a><a href="/trip/" data-site-section="travel" aria-label="鷹家遠行所">遠行所</a></div></nav><script defer src="/site-font-loader.js?v=6484da83cad3" data-font-entry="false"></script><!-- site-navigation:end --></body></html>

diff --git a/assets/ilovekids-rotating-bookcase/cover-source.html b/assets/ilovekids-rotating-bookcase/cover-source.html
@@ -12,4 +12,4 @@
 .badges{display:flex;flex-wrap:wrap;gap:16px;margin-top:40px}
 .badge{font-size:36px;font-weight:800;padding:12px 26px;border-radius:14px;background:#ffd166;color:#1d3047}
 .badge.alt{background:rgba(255,255,255,.92);color:#222}
-.logo{position:absolute;right:40px;bottom:30px;font-size:26px;font-weight:700;letter-spacing:.12em;color:#fff;background:rgba(0,0,0,.45);padding:8px 18px;border-radius:8px}</style><div class="stage"><div class="panel"></div><img class="side" src="standing-tall.jpg" alt="孩子站在愛兒館旋轉書櫃旁拿繪本" style="object-position:center 40%;object-fit:cover;background:transparent"><div class="text"><h1 style="margin:0;font:inherit"><span class="brand">愛兒館 旋轉書櫃</span><span class="title">房間不炸書<br><em>孩子自己</em><br><em>放回去</em></span></h1><p class="sub">2 坪小房間也收得下一整櫃繪本</p><div class="badges"><span class="badge">11/19–11/25 團購</span><span class="badge alt">鷹家實拍</span></div></div><p class="logo">鷹家選物誌</p></div></html>
+.logo{position:absolute;right:40px;bottom:30px;font-size:26px;font-weight:700;letter-spacing:.12em;color:#fff;background:rgba(0,0,0,.45);padding:8px 18px;border-radius:8px}</style><div class="stage"><div class="panel"></div><img class="side" src="standing-tall.jpg" alt="孩子站在愛兒館旋轉書櫃旁拿繪本" style="object-position:center 40%;object-fit:cover;background:transparent"><div class="text"><h1 style="margin:0;font:inherit"><span class="brand">愛兒館 旋轉書櫃</span><span class="title">房間不炸書<br><em>孩子自己</em><br><em>放回去</em></span></h1><p class="sub">2 坪小房間也收得下一整櫃繪本</p><div class="badges"><span class="badge">11/19–11/28 團購</span><span class="badge alt">鷹家實拍</span></div></div><p class="logo">鷹家選物誌</p></div></html>
